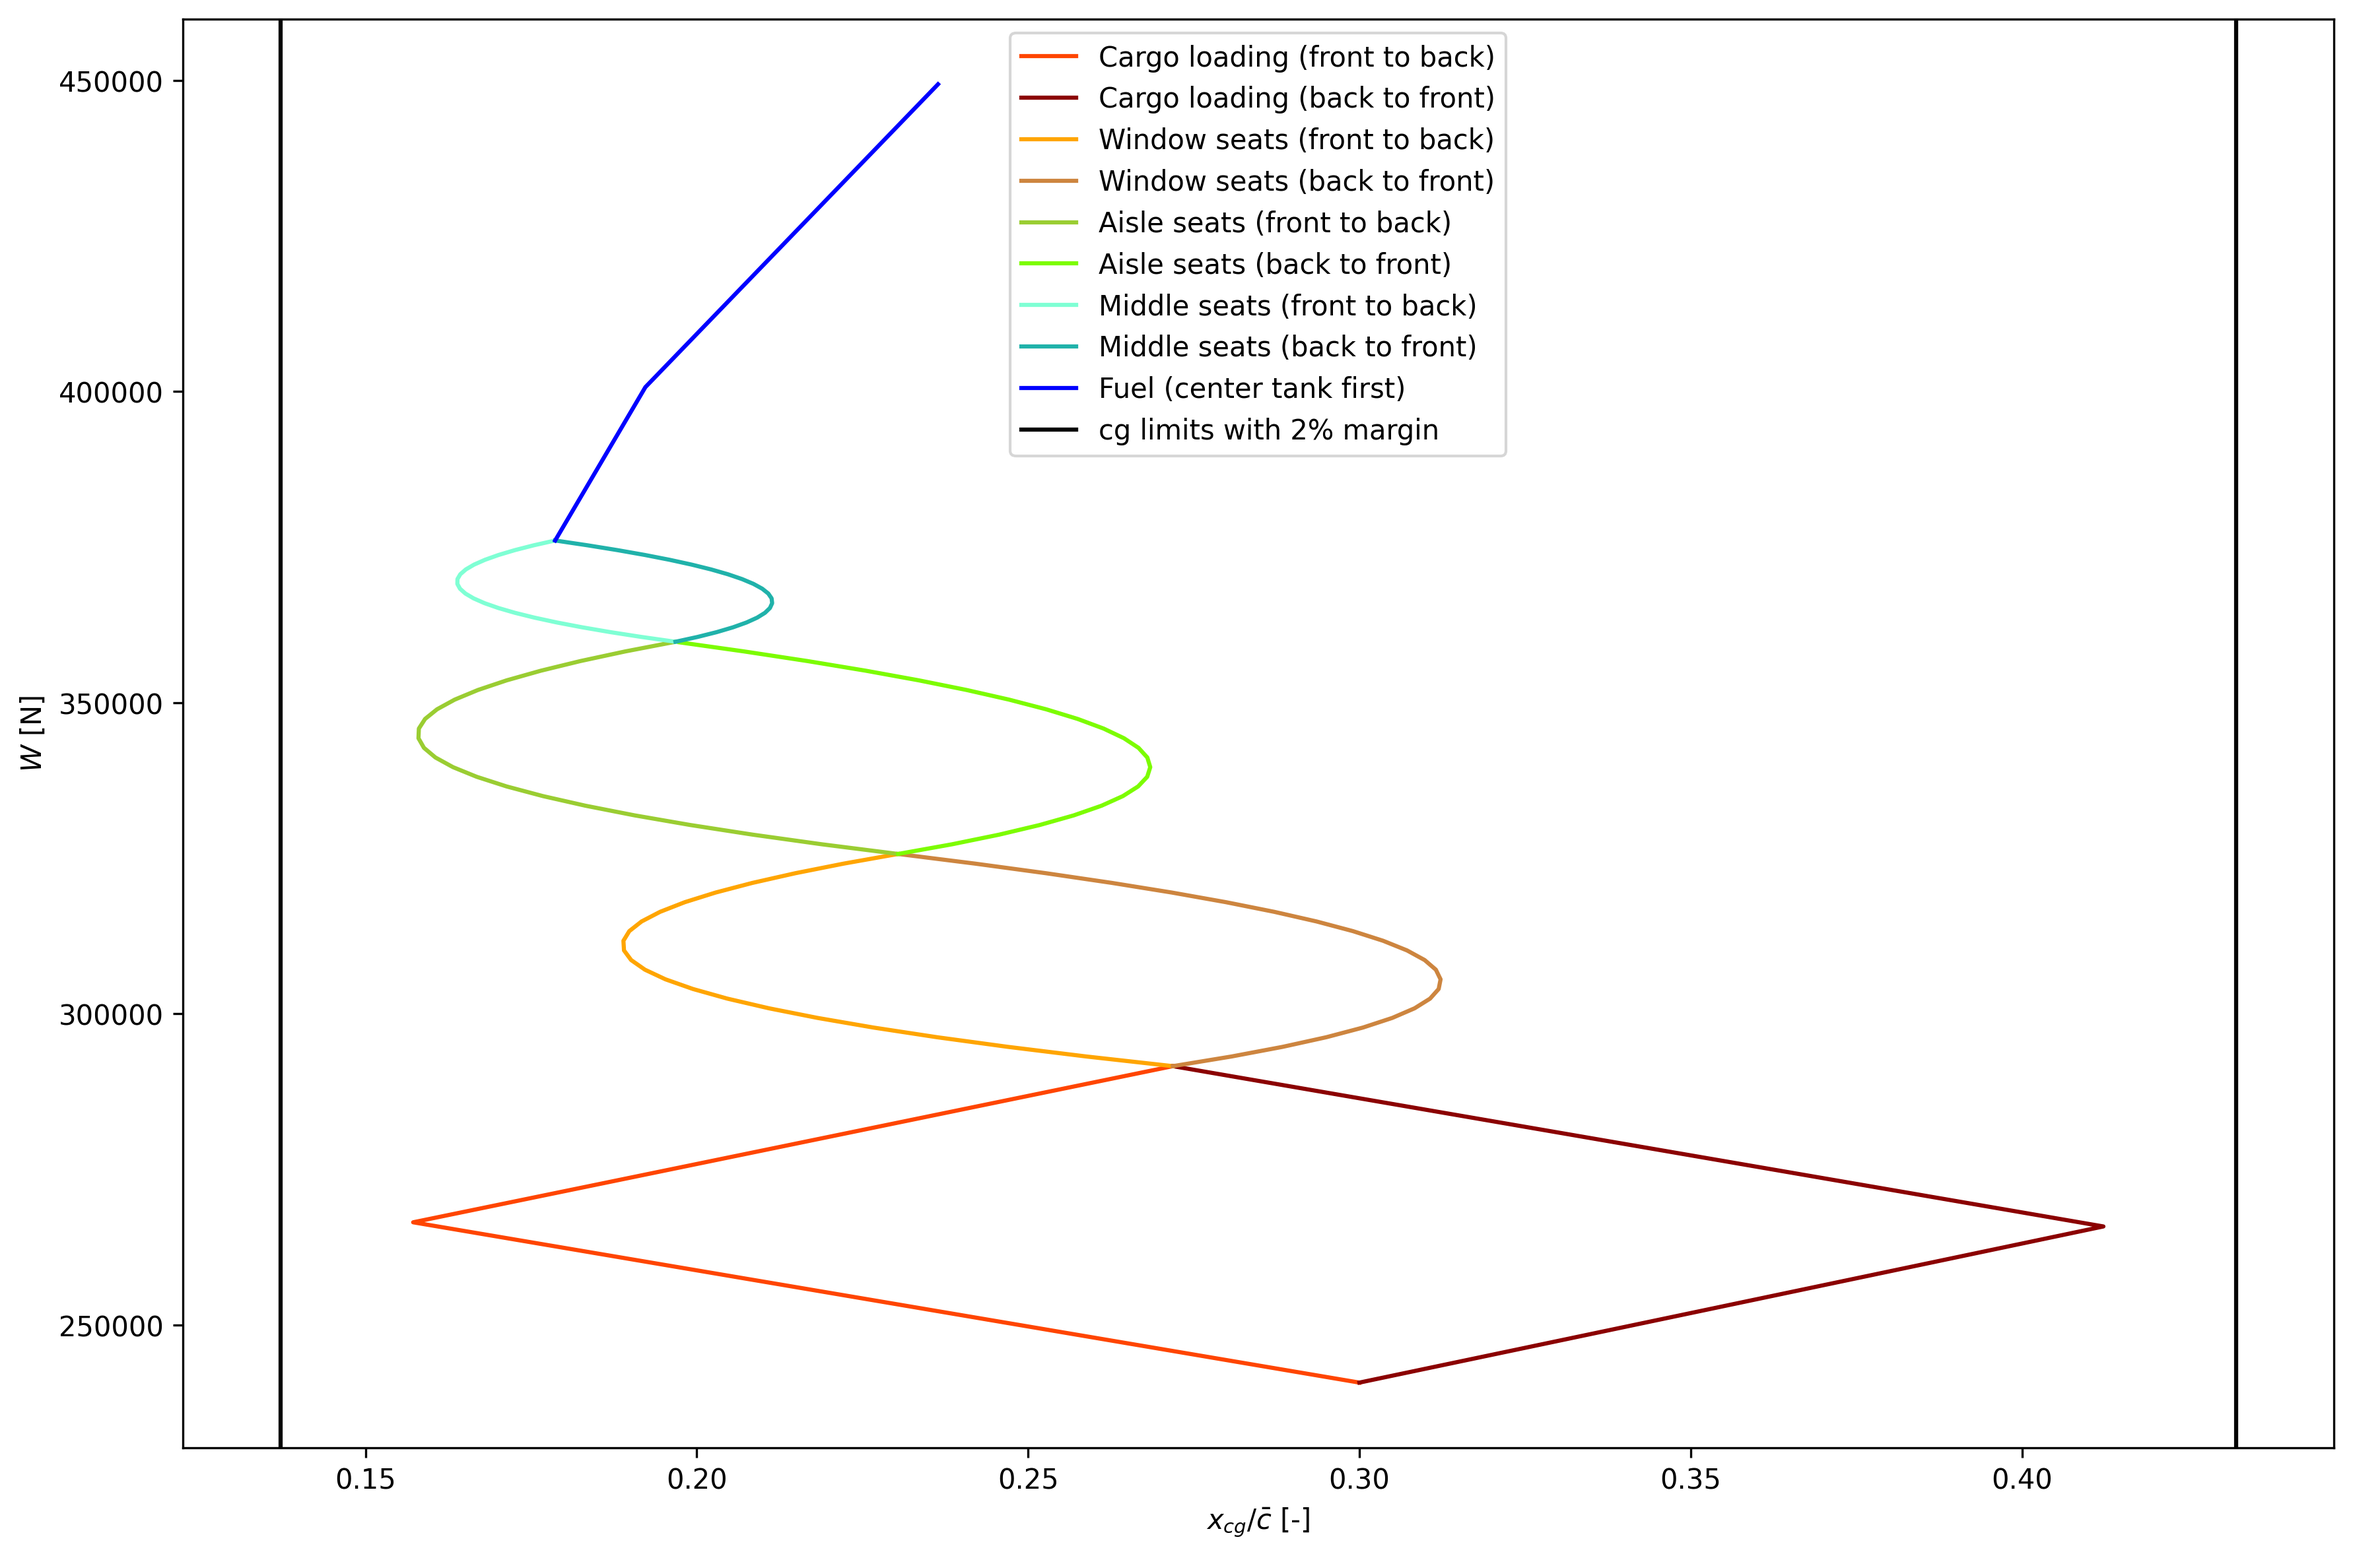
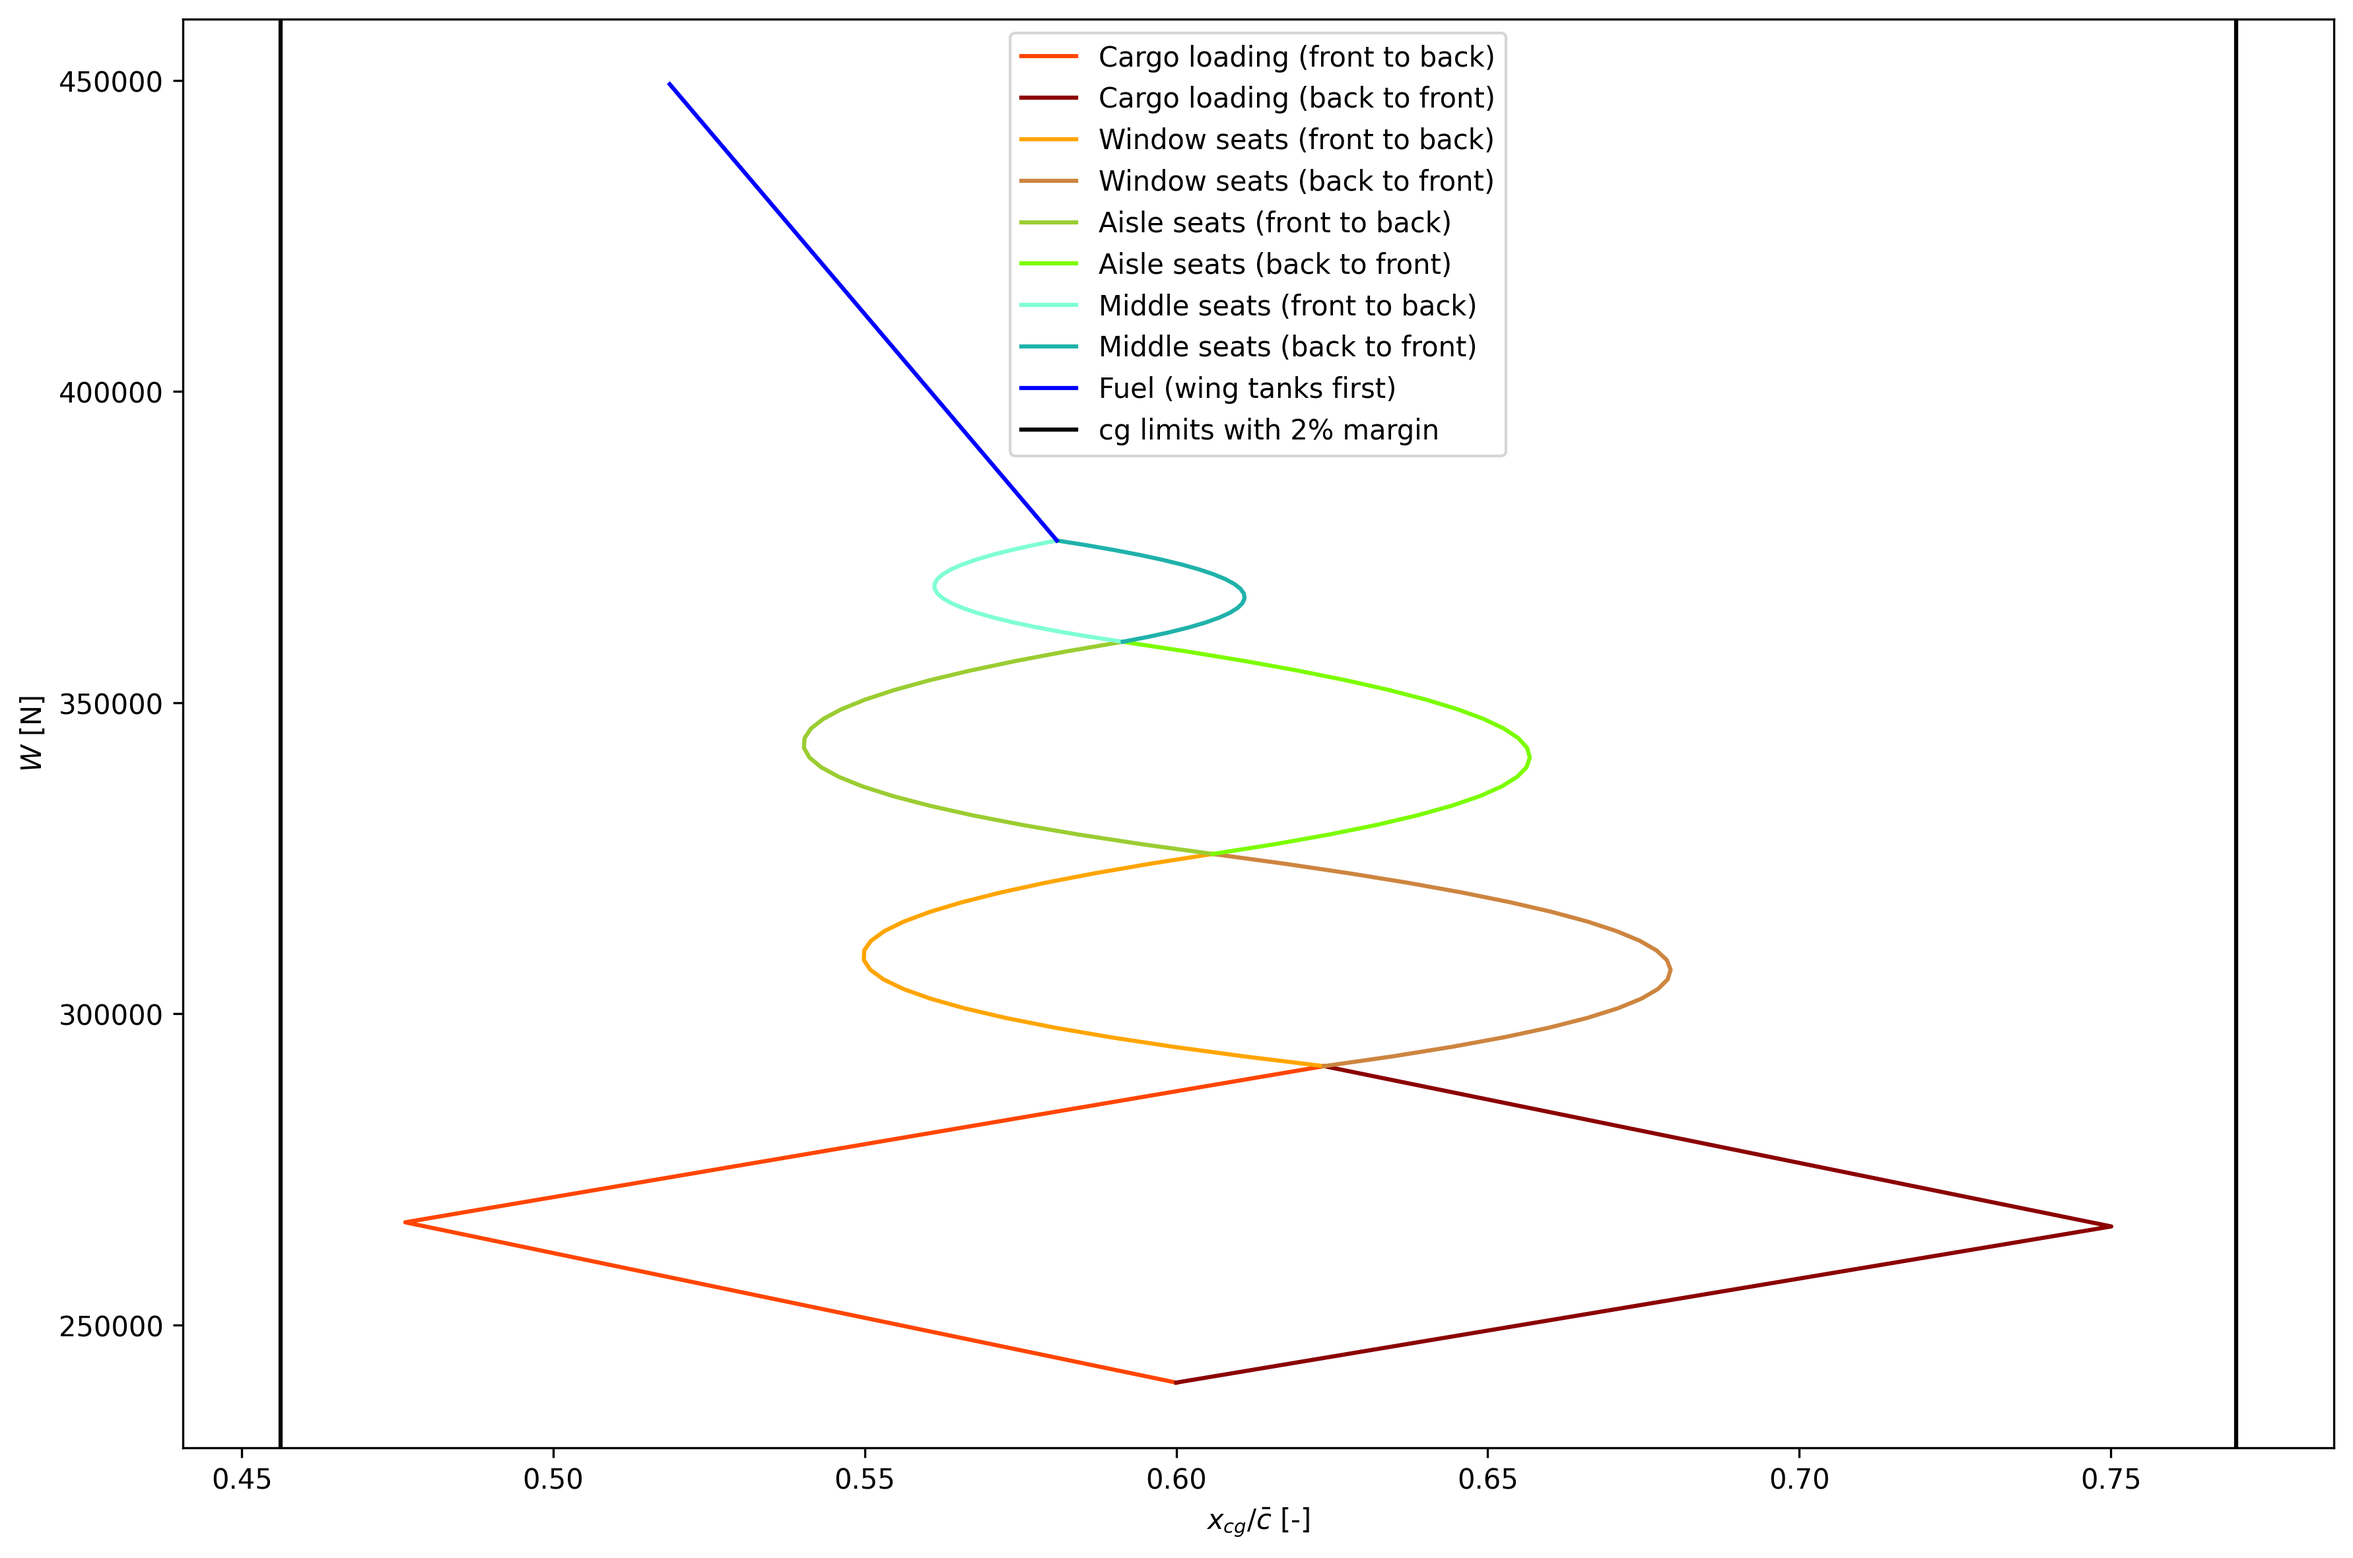
update loading diagrams

diff --git a/loading_diagram.py b/loading_diagram.py
@@ -271,10 +271,10 @@ if __name__ == "__main__":
         "filename": "full_payload_config",          # filename to save to
         "show_legend": True,                        # whether to display the legend
         "cargo_first": True,                        # whether to load cargo first (True) or passengers (False)
-        "x_LEMAC_m": 15.549,                        # position of the MAC from the nose, in [m]
-        "MAC_m": 4.124,                             # MAC, in [m]
+        "x_LEMAC_m": 13.3,                        # position of the MAC from the nose, in [m]
+        "MAC_m": 3.832,                             # MAC, in [m]
         "OEW_kg": 24541,                            # OEW, in [kg]
-        "xcg_oew": 0.3,                             # xcg of the OEW, in % MAC [-]
+        "xcg_oew": 0.6,                             # xcg of the OEW, in % MAC [-]
         "total_cargo_kg": "max",                    # either the total cargo in [kg], or "max" to fully fill all cargo holds
         "front_cargo_max_weight_kg": 1239 + 1387,   # max weights of the front compartment (hold 1 and 2) in [kg]
         "front_cargo_stations_m": (6.920, 14.466),  # the front and rear stations of the front compartments in [m], from the nose
@@ -284,12 +284,12 @@ if __name__ == "__main__":
         "pax_kg": 79,                               # weight of each passenger, in [kg]
         "first_row_position_m": (8 * 32 * 0.0254),  # position of the first row, from the nose in [m]
         "seat_pitch_in": 32,                        # seat pitch, in [in]
-        "load_wing_tank_first": False,              # whether to load the wing tank first (True), or the center tank (False)
+        "load_wing_tank_first": True,               # whether to load the wing tank first (True), or the center tank (False)
         "wing_tank_capacity_kg": 7733,              # capacity of both wing tanks, in [kg] of fuel
         "center_tank_capacity_kg": 2512,            # capacity of the center tank, in [kg] of fuel
-        "wing_tank_position_mac": 0.6,              # wing tank cg, in % MAC from LEMAC [-]
-        "center_tank_position_mac": 0.4,            # center tank cg, in % MAC from LEMAC [-]
+        "wing_tank_position_mac": 0.2,              # wing tank cg, in % MAC from LEMAC [-]
+        "center_tank_position_mac": 0.7,            # center tank cg, in % MAC from LEMAC [-]
         "mtow_kg": 45810,                           # MTOW, in [kg]
-        "fuel_load_kg": "max",                      # total fuel load, in [kg], or "max" to load up to limiting factor (MTOW or tank capacity)
+        "fuel_load_kg": 7474,                      # total fuel load, in [kg], or "max" to load up to limiting factor (MTOW or tank capacity)
     }
     generate_loading_diagram(**full_payload_config)
